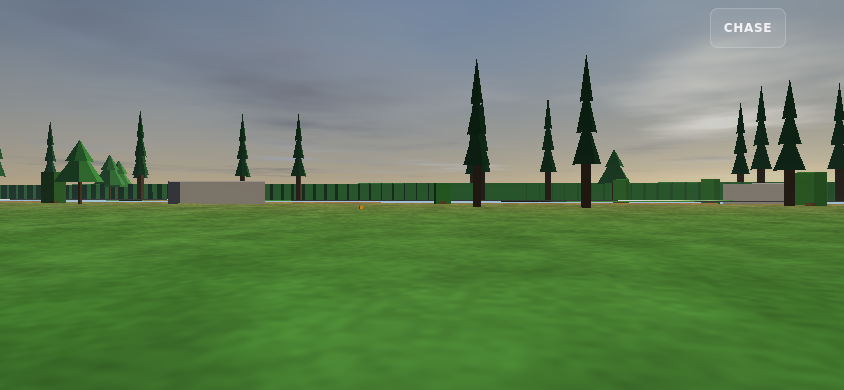
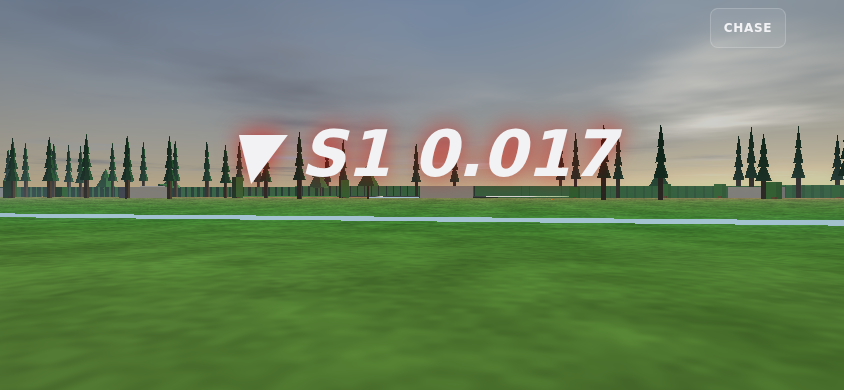
Polish: TT leaderboard ×2, elevation chart labels, season champion panel, API docs
- TT_BOARD_MAX: 5 → 10 (show top 10 laps on per-track leaderboard)
- Elevation profile chart: add Y-axis labels showing min/max metres so the
  chart is interpretable without an external scale reference
- Season champion: clicking FINISH SEASON now shows a dedicated champion panel
  (driver name in team colour, full final standings) before going to menu;
  requires a second click on MAIN MENU — avoids the abrupt menu jump
- DEBUG-HOOKS.md: document previously undocumented APIs:
  camState(), meshToggle(o), nodeAt(frac), nodesNear(wx, wz, r)
  and add a full Headless / RL control loop section covering
  headless(), obs(), act(), and reset() with usage examples
- v=113 → v=114

Claude-Session: https://claude.ai/code/session_011eAFYixsskWfdNJVrM63pZ

diff --git a/index.html b/index.html
@@ -12,8 +12,8 @@
 <link rel="manifest" href="manifest.json">
 <link rel="apple-touch-icon" href="icons/icon-180.png">
 <link rel="icon" type="image/png" href="icons/icon-180.png">
-<link rel="stylesheet" href="css/style.css?v=115">
-<link rel="stylesheet" href="css/data.css?v=115">
+<link rel="stylesheet" href="css/style.css?v=114">
+<link rel="stylesheet" href="css/data.css?v=114">
 </head>
 <body><canvas id="game"></canvas>
 <!-- shown by CSS when body.in-race + portrait orientation — works on iOS too -->
@@ -341,45 +341,45 @@
 
 <div id="nogl" hidden><p>Sorry &mdash; this game needs WebGL2.</p></div>
 
-<script src="js/mat4.js?v=115"></script>
-<script src="js/glx.js?v=115"></script>
-<script src="js/gltf.js?v=115"></script>
-<script src="js/teams.js?v=115"></script>
-<script src="js/circuits.js?v=115"></script>
+<script src="js/mat4.js?v=114"></script>
+<script src="js/glx.js?v=114"></script>
+<script src="js/gltf.js?v=114"></script>
+<script src="js/teams.js?v=114"></script>
+<script src="js/circuits.js?v=114"></script>
 <!-- circuit definitions (data) — must load before the tracks engine -->
-<script src="js/tracks/bahrain.js?v=115"></script>
-<script src="js/tracks/monaco.js?v=115"></script>
-<script src="js/tracks/silverstone.js?v=115"></script>
-<script src="js/tracks/spa.js?v=115"></script>
-<script src="js/tracks/monza.js?v=115"></script>
-<script src="js/tracks/suzuka.js?v=115"></script>
-<script src="js/tracks/singapore.js?v=115"></script>
-<script src="js/tracks/cota.js?v=115"></script>
-<script src="js/tracks/interlagos.js?v=115"></script>
-<script src="js/tracks/vegas.js?v=115"></script>
-<script src="js/tracks/madrid.js?v=115"></script>
-<script src="js/tracks/zandvoort.js?v=115"></script>
-<script src="js/tracks/jeddah.js?v=115"></script>
-<script src="js/tracks/albert_park.js?v=115"></script>
-<script src="js/tracks/shanghai.js?v=115"></script>
-<script src="js/tracks/miami.js?v=115"></script>
-<script src="js/tracks/imola.js?v=115"></script>
-<script src="js/tracks/montreal.js?v=115"></script>
-<script src="js/tracks/redbull.js?v=115"></script>
-<script src="js/tracks/hungaroring.js?v=115"></script>
-<script src="js/tracks/baku.js?v=115"></script>
-<script src="js/tracks/mexico.js?v=115"></script>
-<script src="js/tracks/qatar.js?v=115"></script>
-<script src="js/tracks/abudhabi.js?v=115"></script>
-<script src="js/tracks.js?v=115"></script>
-<script src="js/trackmaps.js?v=115"></script>
-<script src="js/car3d.js?v=115"></script>
-<script src="js/input.js?v=115"></script>
-<script src="js/audio.js?v=115"></script>
-<script src="js/api.js?v=115"></script>
-<script src="js/data.js?v=115"></script>
-<script src="js/parts.js?v=115"></script>
-<script src="js/ghost.js?v=115"></script>
-<script src="js/game.js?v=115"></script>
+<script src="js/tracks/bahrain.js?v=114"></script>
+<script src="js/tracks/monaco.js?v=114"></script>
+<script src="js/tracks/silverstone.js?v=114"></script>
+<script src="js/tracks/spa.js?v=114"></script>
+<script src="js/tracks/monza.js?v=114"></script>
+<script src="js/tracks/suzuka.js?v=114"></script>
+<script src="js/tracks/singapore.js?v=114"></script>
+<script src="js/tracks/cota.js?v=114"></script>
+<script src="js/tracks/interlagos.js?v=114"></script>
+<script src="js/tracks/vegas.js?v=114"></script>
+<script src="js/tracks/madrid.js?v=114"></script>
+<script src="js/tracks/zandvoort.js?v=114"></script>
+<script src="js/tracks/jeddah.js?v=114"></script>
+<script src="js/tracks/albert_park.js?v=114"></script>
+<script src="js/tracks/shanghai.js?v=114"></script>
+<script src="js/tracks/miami.js?v=114"></script>
+<script src="js/tracks/imola.js?v=114"></script>
+<script src="js/tracks/montreal.js?v=114"></script>
+<script src="js/tracks/redbull.js?v=114"></script>
+<script src="js/tracks/hungaroring.js?v=114"></script>
+<script src="js/tracks/baku.js?v=114"></script>
+<script src="js/tracks/mexico.js?v=114"></script>
+<script src="js/tracks/qatar.js?v=114"></script>
+<script src="js/tracks/abudhabi.js?v=114"></script>
+<script src="js/tracks.js?v=114"></script>
+<script src="js/trackmaps.js?v=114"></script>
+<script src="js/car3d.js?v=114"></script>
+<script src="js/input.js?v=114"></script>
+<script src="js/audio.js?v=114"></script>
+<script src="js/api.js?v=114"></script>
+<script src="js/data.js?v=114"></script>
+<script src="js/parts.js?v=114"></script>
+<script src="js/ghost.js?v=114"></script>
+<script src="js/game.js?v=114"></script>
 </body>
 </html>

diff --git a/js/game.js b/js/game.js
@@ -77,9 +77,9 @@ const store = {
   set(k, v) { try { localStorage.setItem("apex26." + k, JSON.stringify(v)); } catch (e) {} },
 };
 
-// Per-track time-trial leaderboard: top 5 laps ever, each tagged with the
+/// Per-track time-trial leaderboard: top 10 laps ever, each tagged with the
 // team + driver that set it. Stored sorted ascending by lap time.
-const TT_BOARD_MAX = 5;
+const TT_BOARD_MAX = 10;
 function ttBoard(trackId) {
   const b = store.get("ttlb." + trackId, []);
   return Array.isArray(b) ? b : [];
@@ -2574,11 +2574,11 @@ function updateTrackPreview() {
       for (let i = 0; i < py.length; i++) { if (py[i] < mn) mn = py[i]; if (py[i] > mx) mx = py[i]; }
       const span = mx - mn || 1;
       const pad = 3;
+      function yNorm(v) { return eh - pad - ((v - mn) / span) * (eh - 2 * pad); }
       eg.beginPath();
       for (let i = 0; i <= py.length; i++) {
         const px = (i / py.length) * ew;
-        const pyNorm = eh - pad - ((py[i % py.length] - mn) / span) * (eh - 2 * pad);
-        i === 0 ? eg.moveTo(px, pyNorm) : eg.lineTo(px, pyNorm);
+        i === 0 ? eg.moveTo(px, yNorm(py[0])) : eg.lineTo(px, yNorm(py[i % py.length]));
       }
       eg.lineTo(ew, eh); eg.lineTo(0, eh); eg.closePath();
       eg.fillStyle = "rgba(57,183,240,0.18)";
@@ -2587,10 +2587,15 @@ function updateTrackPreview() {
       eg.beginPath();
       for (let i = 0; i <= py.length; i++) {
         const px = (i / py.length) * ew;
-        const pyNorm = eh - pad - ((py[i % py.length] - mn) / span) * (eh - 2 * pad);
-        i === 0 ? eg.moveTo(px, pyNorm) : eg.lineTo(px, pyNorm);
+        i === 0 ? eg.moveTo(px, yNorm(py[0])) : eg.lineTo(px, yNorm(py[i % py.length]));
       }
       eg.stroke();
+      // Y-axis elevation labels (top = max, bottom = min)
+      eg.font = "8px monospace";
+      eg.fillStyle = "rgba(57,183,240,0.75)";
+      eg.textAlign = "right";
+      eg.fillText("+" + Math.round(mx) + "m", ew - 2, 9);
+      eg.fillText(Math.round(mn) + "m", ew - 2, eh - 1);
     } else {
       elevCv.hidden = true;
     }
@@ -2865,10 +2870,44 @@ els.resMenu.onclick = () => quitToMenu();
 els.resNext.onclick = () => {
   if (seasonMode) {
     if (season.round >= Tracks.LIST.length) {
-      // season over: champion announce then reset
-      const champ = cars.slice().sort((a, b) => (season.pts[b.code] || 0) - (season.pts[a.code] || 0))[0];
-      announce(champ.code + " IS CHAMPION!", 3);
+      if (els.resNext.textContent !== "MAIN MENU") {
+        // First click: build champion panel, stay on results screen
+        const sorted = cars.slice().sort((a, b) => (season.pts[b.code] || 0) - (season.pts[a.code] || 0));
+        const champ = sorted[0];
+        const champColor = cssCol(champ.team.color);
+        els.resultsTitle.textContent = "WORLD CHAMPION";
+        els.resultsTitle.style.color = champColor;
+        els.resultsTable.textContent = "";
+        // Big champion row
+        const banner = document.createElement("div");
+        banner.style.cssText = "text-align:center;padding:18px 0 10px;font-weight:900;font-style:italic;font-size:1.4em;color:" + champColor;
+        banner.textContent = champ.code + "  " + champ.name;
+        const teamBanner = document.createElement("div");
+        teamBanner.style.cssText = "text-align:center;font-size:0.8em;color:#aaa;margin-bottom:14px;letter-spacing:2px";
+        teamBanner.textContent = champ.team.name.toUpperCase();
+        els.resultsTable.append(banner, teamBanner);
+        // Full standings
+        const head = document.createElement("div");
+        head.style.cssText = "color:#e10600;font-weight:800;font-style:italic;margin-bottom:4px;font-size:0.85em";
+        head.textContent = "FINAL STANDINGS";
+        els.resultsTable.appendChild(head);
+        sorted.forEach((c, i) => {
+          const row = document.createElement("div"); row.className = "res-row";
+          const pos = document.createElement("span"); pos.className = "res-pos"; pos.textContent = i + 1;
+          const sw = document.createElement("span"); sw.className = "res-swatch"; sw.style.background = cssCol(c.team.color);
+          const nm = document.createElement("span"); nm.className = "res-name"; nm.textContent = c.code;
+          const pt = document.createElement("span"); pt.className = "res-pts"; pt.textContent = (season.pts[c.code] || 0) + " pts";
+          row.append(pos, sw, nm, pt);
+          els.resultsTable.appendChild(row);
+        });
+        els.resNext.textContent = "MAIN MENU";
+        announce(champ.code + " IS WORLD CHAMPION!", 4);
+        if (soundOn) GameAudio.finish();
+        return;
+      }
+      // Second click: go to menu, reset season
       season = null; store.set("season", null);
+      els.resultsTitle.style.color = "";
       quitToMenu();
       return;
     }

diff --git a/docs/DEBUG-HOOKS.md b/docs/DEBUG-HOOKS.md
@@ -220,6 +220,12 @@ argument returns the player car. Returns `null` for an out-of-range index. Exten
 `cars()` with fields not worth fetching for the whole field: `team`, `finished`,
 `finishT` (finish timestamp), `contactT` (contact timer), `wrongWay`, `rescueT`.
 
+### `camState() → {eye, tgt, fov}`
+Raw camera geometry: `eye` `[x,y,z]`, `tgt` `[x,y,z]` (look-at point), and `fov`
+(degrees). Snapshot is taken at the moment of the call from the currently active
+camera (chase, cockpit, hood, or debug free-cam). For the combined scene+camera
+snapshot, prefer `viewState()`.
+
 ### `viewState() → {camMode, camIndex, frozen, dbgCamActive, skyOverride, weather, state, eye, tgt, fov}`
 Combined scene snapshot: camera mode, frozen/debug flags, weather, the game
 state-machine value, and current camera geometry (`eye`, `tgt`, `fov`). The
@@ -229,6 +235,37 @@ screenshot — avoids calling `info()`, `camera()`, and `probe()` separately.
 ### `corners() → [number, …]`
 Lap-fractions of the corner apexes (local maxima of `|curvature|`). Handy for
 parking at each corner in turn: `corners().forEach(s => …)`.
+
+### `nodeAt(frac) → {k, frac, x, y, z, tx, tz, rx, rz} | null`
+World position and orientation of the track node closest to lap-fraction `frac`
+(0–1). Returns `null` if no track is loaded. Fields:
+
+| Field | Meaning |
+|---|---|
+| `k` | Node index |
+| `frac` | Actual fraction of the returned node |
+| `x, y, z` | World-space centre position (m) |
+| `tx, tz` | Track tangent direction (unit vector, XZ components) |
+| `rx, rz` | Right-vector (perpendicular to tangent, in XZ plane) |
+
+Useful for geometry tests, self-intersection checks, and building world-space
+coordinates from arc-position data:
+```js
+const n = __apex.nodeAt(0.25);          // node at ~quarter-lap
+const worldPt = [n.x + n.rx * 3, n.y, n.z + n.rz * 3];  // 3 m right of centreline
+```
+
+### `nodesNear(wx, wz, r) → [{i, frac, x, y, z}]`
+All track nodes within radius `r` (m) of the world XZ point `(wx, wz)`. Returns
+an empty array if no track is loaded. Each entry includes the node index `i`, its
+lap-fraction, and world position `(x, y, z)`.
+
+Useful for auditing self-intersecting track layouts:
+```js
+// nodes within 4 m of world origin
+const near = __apex.nodesNear(0, 0, 4);
+console.log(near.map(n => `[${n.i}] ${(n.frac*100).toFixed(1)}% @ (${n.x},${n.z})`));
+```
 
 ### `wallStats() → {minB, maxB, minOverHw, anyNaN, street, n} | null`
 Driving-boundary stats for the current track (both sides, all nodes): tightest
@@ -402,10 +439,97 @@ stuck-recovery: a healthy AI digs out and resumes within a couple of seconds.
 Load an optional `.glb` car model at runtime (team meshes rebuild from it, tinted
 per livery); resolves `false` and keeps the procedural car on failure.
 
+### `meshToggle(o) → overrides`
+Hide or show individual track meshes by name. `o` is an object of `{meshName:
+bool}` — `false` hides the mesh, `true` restores it. Keys are additive; omitted
+keys are unchanged. Returns the full current override map.
+
+```js
+__apex.meshToggle({ props: false });       // hide track props (cones, barriers)
+__apex.meshToggle({ road: false });        // hide the road surface
+__apex.clearMeshes();                      // restore all meshes
+```
+
 ### `clearMeshes() → {}`
 Reset all `meshToggle()` overrides, restoring every mesh to its default visibility
 state. Companion to `meshToggle()` — call this between tests so toggled meshes
 don't bleed into later screenshots.
+
+---
+
+## Headless / RL control loop
+
+For reinforcement-learning, autopilot testing, or any high-throughput physics
+simulation, the RL API lets you step physics at uncapped speed (skipping the
+WebGL render pass entirely) and receive a rich observation in a single
+cross-boundary call.
+
+### `headless(on?) → boolean`
+Get or set headless mode. When `true`, `render()` returns immediately — physics
+can be stepped via `act()` at far above 60 fps without GPU overhead. Called with
+no argument returns the current state.
+
+```js
+__apex.headless(true);   // skip render — physics-only loop
+__apex.headless(false);  // restore normal rendering
+```
+
+### `obs() → observation | null`
+Full debug observation of the current game state — superset of `physState()` and
+`probe()` with track context, barrier clearances, lookahead scan, and rival
+proximity. Returns `null` if no track is loaded.
+
+| Field(s) | Description |
+|---|---|
+| `s, x, prog, lap, raceT` | Position, progress (m cumulative), lap count, race clock |
+| `speed, speedKph, head, vLat` | Motion: speed (m/s), heading (rad), lateral velocity |
+| `axEstSm, axFrac, slipFactor, slipDeg` | Combined-slip state (see `physState()`) |
+| `k, hw, slope, gripMult, weather` | Track context at player: curvature, half-width, road pitch, grip multiplier |
+| `wallR, wallL, clearR, clearL` | Signed barrier distances and clearances to each side (m) |
+| `energy` | ERS charge level 0–1 |
+| `wrongWay, offT, rescueT, done` | Episode flags: `done = wrongWay ∥ rescueT > 8` |
+| `input` | Currently applied override input (null fields = live device input) |
+| `posInField, gapAhead, gapBehind` | Race position and gap to nearest rivals (m) |
+| `scan` | Lookahead at [10, 30, 60] m: `{d, k, hw, wallR, wallL, width}` |
+| `reward` | Pre-composed reward components: `speed`, `offTrack`, `wallDist`, `wrongWay` |
+
+### `act(input, dt?, n?) → observation | null`
+Set input, step `n` (default 1) physics ticks of `dt` (default `1/60`) seconds
+each, then return `obs()`. Single round-trip replaces three separate
+`page.evaluate()` calls in a control loop.
+
+`input = { steer: -1..1, throttle: bool, brake: bool }` — pass `null` to keep the
+current input. Returns `null` if no track is loaded.
+
+### `reset(frac, speed?, x?) → observation | false`
+Fast episode reset reusing the already-loaded track. Reinitialises the car grid,
+positions the player at lap-fraction `frac` (0–1) with optional `speed` (m/s) and
+lateral offset `x` (m), sets `state = "race"` and `raceT = 0` — all without
+reloading assets. Returns the initial `obs()`, or `false` if no track is loaded.
+
+Call `race()` first to load the desired circuit, then call `reset()` at the start
+of each episode instead of reloading:
+
+```js
+// one-time setup
+await page.evaluate(() => window.__apex.race("monza"));
+await page.waitForFunction(() => window.__apex.info().track != null);
+
+// per-episode: fast reset, no page reload
+const obs = await page.evaluate(() => {
+  window.__apex.headless(true);
+  return window.__apex.reset(0.1, 30, 0);   // start at 10% lap, 30 m/s
+});
+
+// control loop: 1 evaluate() per decision step
+while (!obs.done) {
+  const next = await page.evaluate((steer) =>
+    window.__apex.act({ steer, throttle: true, brake: false }, 1/60, 5),
+    chooseSteer(obs)
+  );
+  obs = next;
+}
+```
 
 ---
 